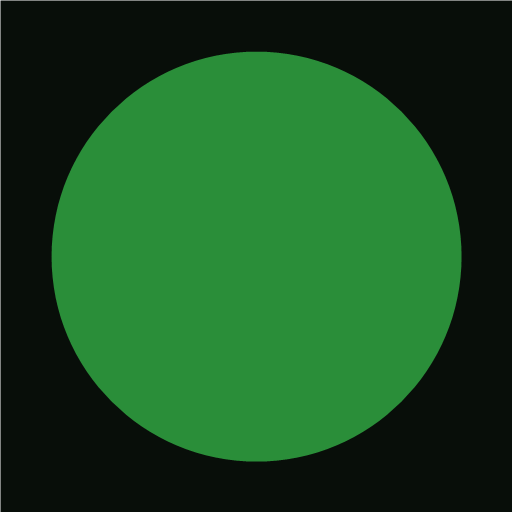
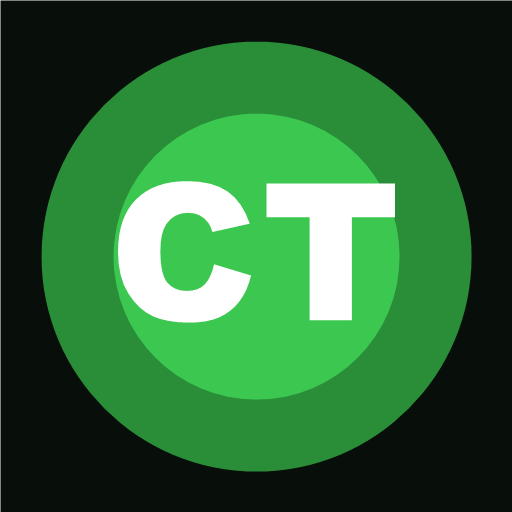
fix: icono con texto CT + notificaciones via SW para iOS PWA
- Regenerados icon-180/192/512.png con texto CT visible
- apple-touch-icon apunta a icon-180.png (tamano exacto iOS)
- manifest.json incluye los 3 tamanos PNG
- notifications.ts: usa registration.showNotification() via SW
  new Notification() no funciona en iOS PWA instalada

Changed region(s): [[0.2188, 0.2188, 0.7812, 0.7812], [0.0625, 0.0625, 0.9375, 0.9375]]

diff --git a/frontend/src/lib/notifications.ts b/frontend/src/lib/notifications.ts
@@ -42,14 +42,30 @@ export function notifyPendingTasks(
   const body = uniquePlants.slice(0, 2).join(', ') +
     (uniquePlants.length > 2 ? ` y ${uniquePlants.length - 2} mas` : '')
 
+  const options: NotificationOptions = {
+    body,
+    icon: '/icon-192.png',
+    badge: '/icon-180.png',
+    tag: 'daily-tasks',
+  }
+
   try {
-    new Notification(title, {
-      body,
-      icon: '/icon-192.png',
-      tag: 'daily-tasks',
-    })
+    // iOS PWA requiere showNotification via SW — new Notification() no funciona
+    if ('serviceWorker' in navigator) {
+      navigator.serviceWorker.getRegistration().then((reg) => {
+        if (reg) {
+          reg.showNotification(title, options)
+        } else {
+          new Notification(title, options)
+        }
+      }).catch(() => {
+        try { new Notification(title, options) } catch { /* silencioso */ }
+      })
+    } else {
+      new Notification(title, options)
+    }
   } catch {
-    // Silenciar errores en contextos donde Notification esta bloqueado
+    // silencioso
   }
 }
 

diff --git a/frontend/index.html b/frontend/index.html
@@ -9,7 +9,7 @@
     <meta name="apple-mobile-web-app-title" content="CannaTrack" />
     <link rel="manifest" href="/manifest.json" />
     <link rel="icon" href="/icon.svg" type="image/svg+xml" />
-    <link rel="apple-touch-icon" href="/icon-192.png" />
+    <link rel="apple-touch-icon" sizes="180x180" href="/icon-180.png" />
     <link rel="preconnect" href="https://fonts.googleapis.com" />
     <link rel="preconnect" href="https://fonts.gstatic.com" crossorigin />
     <link href="https://fonts.googleapis.com/css2?family=Inter:wght@400;500;600;700&display=swap" rel="stylesheet" />